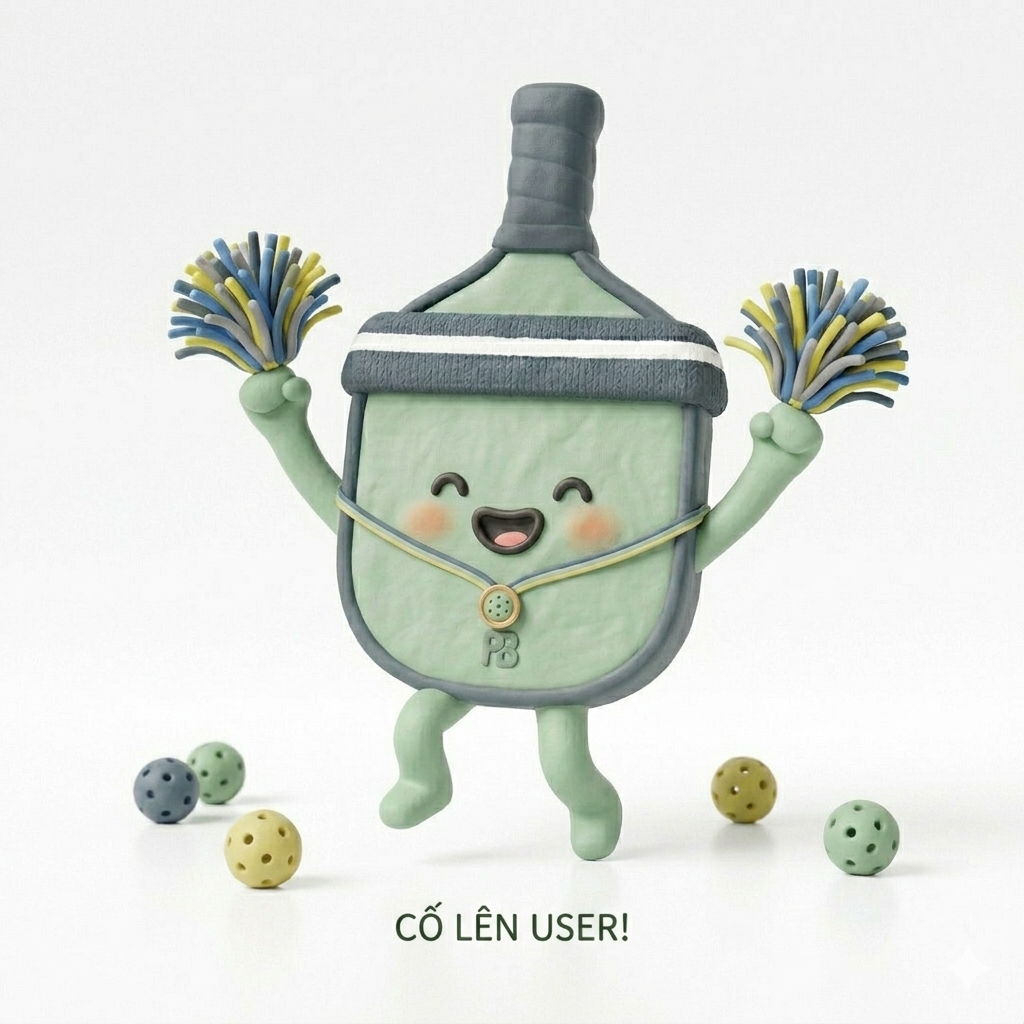
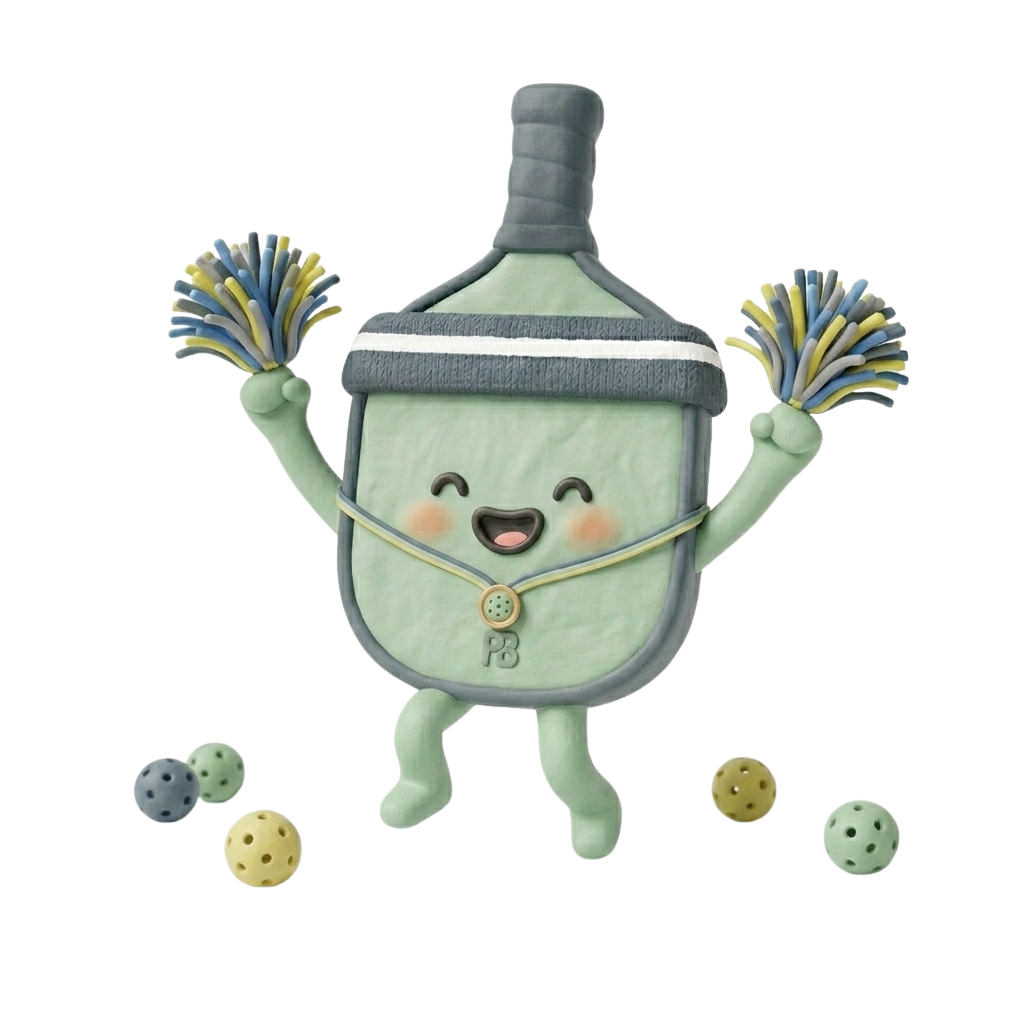
UI: Update to background-removed images and remove 'mascot' from text

diff --git a/pickx-courtside/src/pages/user/LiveCourts.tsx b/pickx-courtside/src/pages/user/LiveCourts.tsx
@@ -88,7 +88,7 @@ export default function LiveCourts() {
             <div className="relative">
               <img 
                 src={mascotSrc}
-                alt="Picklebee Mascot" 
+                alt="Picklebee" 
                 className={cn("w-72 h-72 object-contain drop-shadow-2xl animate-float transition-opacity duration-500", visible ? "opacity-100" : "opacity-0")}
               />
             </div>
